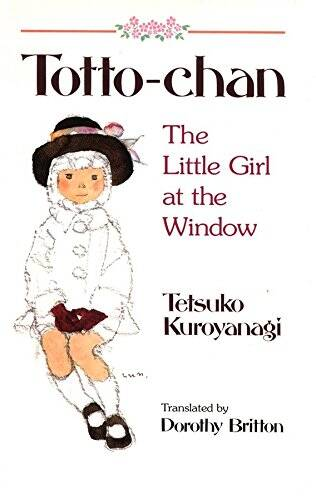
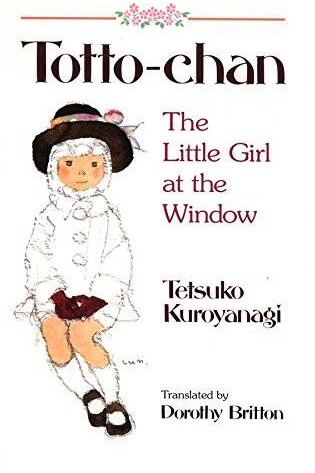
fixes #328

diff --git a/public_website/templates/public_website/resources.html b/public_website/templates/public_website/resources.html
@@ -61,13 +61,13 @@
                                                 <div class="detail-item">
                                                     <p>
                                                         <span class="detail-title">Available in: </span>
-                                                        <a class="book-link" href="https://www.tulikabooks.com/wordbird-books/the-why-why-girl-english.html" target="_blank">English</a>, 
-                                                        <a class="book-link" href="https://www.tulikabooks.com/wordbird-books/the-why-why-girl-kyun-kyun-ladki-hindi.html" target="_blank">Hindi</a>, 
-                                                        <a class="book-link" href="https://www.tulikabooks.com/wordbird-books/the-why-why-girl-kame-kame-chhokri-gujarati.html" target="_blank">Gujarati</a>, 
-                                                        <a class="book-link" href="https://www.tulikabooks.com/wordbird-books/the-why-why-girl-yaake-yaake-hudugi-kannada.html" target="_blank">Kannada</a>, 
-                                                        <a class="book-link" href="https://www.tulikabooks.com/wordbird-books/the-why-why-girl-oru-endendinu-pennkutti-malayalam.html" target="_blank">Malayalam</a>, 
-                                                        <a class="book-link" href="https://www.tulikabooks.com/wordbird-books/the-why-why-girl-kaan-kaan-kumari-marathi.html" target="_blank">Marathi</a>, 
-                                                        <a class="book-link" href="https://www.tulikabooks.com/wordbird-books/the-why-why-girl-yain-yain-sirumi-tamil.html" target="_blank">Tamil</a>, 
+                                                        <a class="book-link" href="https://www.tulikabooks.com/wordbird-books/the-why-why-girl-english.html" target="_blank">English</a>,
+                                                        <a class="book-link" href="https://www.tulikabooks.com/wordbird-books/the-why-why-girl-kyun-kyun-ladki-hindi.html" target="_blank">Hindi</a>,
+                                                        <a class="book-link" href="https://www.tulikabooks.com/wordbird-books/the-why-why-girl-kame-kame-chhokri-gujarati.html" target="_blank">Gujarati</a>,
+                                                        <a class="book-link" href="https://www.tulikabooks.com/wordbird-books/the-why-why-girl-yaake-yaake-hudugi-kannada.html" target="_blank">Kannada</a>,
+                                                        <a class="book-link" href="https://www.tulikabooks.com/wordbird-books/the-why-why-girl-oru-endendinu-pennkutti-malayalam.html" target="_blank">Malayalam</a>,
+                                                        <a class="book-link" href="https://www.tulikabooks.com/wordbird-books/the-why-why-girl-kaan-kaan-kumari-marathi.html" target="_blank">Marathi</a>,
+                                                        <a class="book-link" href="https://www.tulikabooks.com/wordbird-books/the-why-why-girl-yain-yain-sirumi-tamil.html" target="_blank">Tamil</a>,
                                                         <a class="book-link" href="https://www.tulikabooks.com/wordbird-books/the-why-why-girl-enduku-enduku-ammaayi-telugu.html" target="_blank">Telugu</a>
                                                     </p>
                                                 </div>
@@ -80,8 +80,8 @@
                     </div>
                     <div class="resource-item">
                         <div>
-                            <img class="book-cover default-cover" src="{% static 'resources/cover.jpg' %}" alt="Sawaliram Book cover">
-                            <p class="resource-title">Discovered questions</p>
+                          <img class="book-details-cover" src="{% static 'resources/discovered-questions.png' %}" alt="Discovered Questions cover">
+                            <p class="resource-title">Discovered Questions</p>
                             <p class="resource-sub-title">by Yash Pal</p>
                             <p class="resource-language">
                                 <a class="resource-language-link" href="https://archive.org/details/DiscoveredQuestions" target="_blank">English</a>,
@@ -95,13 +95,13 @@
                                     <div class="modal-content">
                                         <button class="btn btn-small close-modal" data-dismiss="modal"><i class="fas fa-times"></i> close</button>
                                         <div class="book-details-content">
-                                            <img class="book-details-cover default-cover" src="{% static 'resources/cover.jpg' %}" alt="Sawaliram Book cover">
+                                          <img class="book-details-cover" src="{% static 'resources/discovered-questions.png' %}" alt="Discovered Questions cover">
                                             <div class="details-container">
                                                 <div class="detail-item">
                                                     <p><span class="detail-title">Author: </span>Yash Pal</p>
                                                 </div>
                                                 <div class="detail-item">
-                                                    <p><span class="detail-title">Title: </span>Discovered questions</p>
+                                                    <p><span class="detail-title">Title: </span>Discovered Questions</p>
                                                 </div>
                                                 <div class="detail-item">
                                                     <p><span class="detail-title">Publisher: </span>National Council of Educational Research and Training (NCERT)</p>
@@ -126,7 +126,7 @@
                     <div class="resource-item">
                         <div>
                             <img class="book-cover" src="{% static 'resources/science-through-post-card.jpg' %}" alt="Science through postcards cover">
-                            <p class="resource-title">Science through postcards</p>
+                            <p class="resource-title">Science Through Postcards</p>
                             <p class="resource-sub-title">by Jayant Narlikar</p>
                             <p class="resource-language">
                                 <a class="resource-language-link" href="https://scipop.iucaa.in/Literature/jvn-postcardbook.htm" target="_blank">English</a>,
@@ -147,7 +147,7 @@
                                                     <p><span class="detail-title">Author: </span>Jayant Narlikar</p>
                                                 </div>
                                                 <div class="detail-item">
-                                                    <p><span class="detail-title">Title: </span>Science through postcards</p>
+                                                    <p><span class="detail-title">Title: </span>Science Through Postcards</p>
                                                 </div>
                                                 <div class="detail-item">
                                                     <p><span class="detail-title">Publisher (Marathi): </span>Marathi Vidnyan Parishad</p>
@@ -172,7 +172,7 @@
                     </div>
                     <div class="resource-item">
                         <div>
-                            <img class="book-cover default-cover" src="{% static 'resources/cover.jpg' %}" alt="Sawaliram Book cover">
+                            <img class="book-cover" src="{% static 'resources/chinnara-lokadalli.jpg' %}" alt="Chinnara Lokadalli Karantu cover">
                             <p class="resource-title">Chinnara Lokadalli Karantu</p>
                             <p class="resource-sub-title">by Shivaram Karanth</p>
                             <p class="resource-language">Kannada</p>
@@ -184,7 +184,7 @@
                                     <div class="modal-content">
                                         <button class="btn btn-small close-modal" data-dismiss="modal"><i class="fas fa-times"></i> close</button>
                                         <div class="book-details-content">
-                                            <img class="book-details-cover default-cover" src="{% static 'resources/cover.jpg' %}" alt="Sawaliram Book cover">
+                                            <img class="book-cover" src="{% static 'resources/chinnara-lokadalli.jpg' %}" alt="Chinnara Lokadalli Karantu cover">
                                             <div class="details-container">
                                                 <div class="detail-item">
                                                     <p><span class="detail-title">Author: </span>Shivaram Karanth</p>
@@ -214,11 +214,11 @@
                     </div>
                     <div class="resource-item">
                         <div>
-                            <img class="book-cover default-cover" src="{% static 'resources/cover.jpg' %}" alt="Sawaliram Book cover">
+                            <img class="book-cover" src="{% static 'resources/totto-chan.jpg' %}" alt="Totto Chan cover">
                             <p class="resource-title">Totto Chan</p>
                             <p class="resource-sub-title">by Tetsuko Kuroyanagi</p>
                             <p class="resource-language">
-                                Japanese, English, Hindi 
+                                Japanese, English, Hindi
                                 <br>+ 9 more
                             </p>
                         </div>
@@ -229,7 +229,7 @@
                                     <div class="modal-content">
                                         <button class="btn btn-small close-modal" data-dismiss="modal"><i class="fas fa-times"></i> close</button>
                                         <div class="book-details-content">
-                                            <img class="book-details-cover default-cover" src="{% static 'resources/cover.jpg' %}" alt="Sawaliram Book cover">
+                                            <img class="book-cover" src="{% static 'resources/totto-chan.jpg' %}" alt="Totto Chan cover">
                                             <div class="details-container">
                                                 <div class="detail-item">
                                                     <p><span class="detail-title">Author: </span>Tetsuko Kuroyanagi</p>
@@ -269,7 +269,7 @@
                     </div>
                     <div class="resource-item">
                         <div>
-                            <img class="book-cover default-cover" src="{% static 'resources/cover.jpg' %}" alt="Sawaliram Book cover">
+                          <img class="book-cover" src="{% static 'resources/a-summer-story.jpg' %}" alt="A Summer Story cover">
                             <p class="resource-title">A Summer Story</p>
                             <p class="resource-sub-title">by K. G. Subramanyan</p>
                             <p class="resource-language">
@@ -283,7 +283,7 @@
                                     <div class="modal-content">
                                         <button class="btn btn-small close-modal" data-dismiss="modal"><i class="fas fa-times"></i> close</button>
                                         <div class="book-details-content">
-                                            <img class="book-details-cover default-cover" src="{% static 'resources/cover.jpg' %}" alt="Sawaliram Book cover">
+                                            <img class="book-cover" src="{% static 'resources/a-summer-story.jpg' %}" alt="A Summer Story cover">
                                             <div class="details-container">
                                                 <div class="detail-item">
                                                     <p><span class="detail-title">Author: </span>K. G. Subramanyan</p>
@@ -317,7 +317,7 @@
             <div class="resource-item-wrapper">
                 <div class="resource-item">
                     <div>
-                        <img class="book-cover default-cover" src="{% static 'resources/cover.jpg' %}" alt="Sawaliram Book cover">
+                        <img class="book-cover" src="{% static 'resources/the-hungry-mind.jpg' %}" alt="The Hungry Mind cover">
                         <p class="resource-title">The Hungry Mind</p>
                         <p class="resource-sub-title">by Susan Engel</p>
                         <p class="resource-language">
@@ -331,7 +331,7 @@
                                 <div class="modal-content">
                                     <button class="btn btn-small close-modal" data-dismiss="modal"><i class="fas fa-times"></i> close</button>
                                     <div class="book-details-content">
-                                        <img class="book-details-cover default-cover" src="{% static 'resources/cover.jpg' %}" alt="Sawaliram Book cover">
+                                        <img class="book-cover" src="{% static 'resources/the-hungry-mind.jpg' %}" alt="The Hungry Mind cover">
                                         <div class="details-container">
                                             <div class="detail-item">
                                                 <p><span class="detail-title">Author: </span>Susan Engel</p>
@@ -363,7 +363,7 @@
                 </div>
                 <div class="resource-item">
                     <div>
-                        <img class="book-cover default-cover" src="{% static 'resources/cover.jpg' %}" alt="Sawaliram Book cover">
+                        <img class="book-cover" src="{% static 'resources/what-makes-us-curious.jpg' %}" alt="Why? What Makes Us Curious cover">
                         <p class="resource-title">Why? What Makes Us Curious</p>
                         <p class="resource-sub-title">by Simon & Schuster</p>
                         <p class="resource-language">
@@ -377,7 +377,7 @@
                                 <div class="modal-content">
                                     <button class="btn btn-small close-modal" data-dismiss="modal"><i class="fas fa-times"></i> close</button>
                                     <div class="book-details-content">
-                                        <img class="book-details-cover default-cover" src="{% static 'resources/cover.jpg' %}" alt="Sawaliram Book cover">
+                                        <img class="book-cover" src="{% static 'resources/what-makes-us-curious.jpg' %}" alt="Why? What Makes Us Curious cover">
                                         <div class="details-container">
                                             <div class="detail-item">
                                                 <p><span class="detail-title">Author: </span>Simon & Schuster</p>
@@ -423,7 +423,7 @@
                                 <div class="modal-content">
                                     <button class="btn btn-small close-modal" data-dismiss="modal"><i class="fas fa-times"></i> close</button>
                                     <div class="book-details-content">
-                                        <img class="book-details-cover" src="{% static 'resources/philosophy-of-childhood.jpg' %}" alt="The Philosophy of Childhood cover">
+                                        <img class="book-cover" src="{% static 'resources/philosophy-of-childhood.jpg' %}" alt="The Philosophy of Childhood cover">
                                         <div class="details-container">
                                             <div class="detail-item">
                                                 <p><span class="detail-title">Author: </span>Gareth B. Matthews</p>
@@ -455,7 +455,7 @@
                 </div>
                 <div class="resource-item">
                     <div>
-                        <img class="book-cover default-cover" src="{% static 'resources/cover.jpg' %}" alt="Sawaliram Book cover">
+                        <img class="book-cover" src="{% static 'resources/having-of-wonderful-ideas.jpg' %}" alt="The Having of Wonderful Ideas: And Other Essays on Teaching and Learning cover">
                         <p class="resource-title">The Having of Wonderful Ideas</p>
                         <p class="resource-sub-title">by Eleanor Duckworth</p>
                         <p class="resource-language">
@@ -469,7 +469,7 @@
                                 <div class="modal-content">
                                     <button class="btn btn-small close-modal" data-dismiss="modal"><i class="fas fa-times"></i> close</button>
                                     <div class="book-details-content">
-                                        <img class="book-details-cover default-cover" src="{% static 'resources/cover.jpg' %}" alt="Sawaliram Book cover">
+                                        <img class="book-cover" src="{% static 'resources/having-of-wonderful-ideas.jpg' %}" alt="The Having of Wonderful Ideas: And Other Essays on Teaching and Learning cover">
                                         <div class="details-container">
                                             <div class="detail-item">
                                                 <p><span class="detail-title">Author: </span>Eleanor Duckworth</p>
@@ -501,7 +501,7 @@
                 </div>
                 <div class="resource-item">
                     <div>
-                        <img class="book-cover default-cover" src="{% static 'resources/cover.jpg' %}" alt="Sawaliram Book cover">
+                        <img class="book-cover" src="{% static 'resources/hundred-languages-of-children.jpg' %}" alt="The Hundred Languages of Children: The Reggio Emilia Experience in Transformation cover">
                         <p class="resource-title">The Hundred Languages of Children</p>
                         <p class="resource-sub-title">(Editors) Carolyn P. Edwards, Lella Gandini, George Forman</p>
                         <p class="resource-language">
@@ -515,7 +515,7 @@
                                 <div class="modal-content">
                                     <button class="btn btn-small close-modal" data-dismiss="modal"><i class="fas fa-times"></i> close</button>
                                     <div class="book-details-content">
-                                        <img class="book-details-cover default-cover" src="{% static 'resources/cover.jpg' %}" alt="Sawaliram Book cover">
+                                        <img class="book-cover" src="{% static 'resources/hundred-languages-of-children.jpg' %}" alt="The Hundred Languages of Children: The Reggio Emilia Experience in Transformation cover">
                                         <div class="details-container">
                                             <div class="detail-item">
                                                 <p><span class="detail-title">Editors: </span>Carolyn P. Edwards, Lella Gandini, George Forman</p>
@@ -582,8 +582,8 @@
                     <p class="resource-title">I Wonder</p>
                     <p class="resource-sub-title">Azim Premji University</p>
                     <p class="resource-language">
-                        <a class="resource-language-link" href="https://azimpremjiuniversity.edu.in/SitePages/resources-iwonder.aspx" target="_blank">English</a>, 
-                        <a class="resource-language-link" href="https://azimpremjiuniversity.edu.in/SitePages/resources-iwonder.aspx" target="_blank">Hindi</a>, 
+                        <a class="resource-language-link" href="https://azimpremjiuniversity.edu.in/SitePages/resources-iwonder.aspx" target="_blank">English</a>,
+                        <a class="resource-language-link" href="https://azimpremjiuniversity.edu.in/SitePages/resources-iwonder.aspx" target="_blank">Hindi</a>,
                         <a class="resource-language-link" href="https://azimpremjiuniversity.edu.in/SitePages/resources-iwonder.aspx" target="_blank">Kannada</a>
                     </p>
                 </div>
@@ -628,7 +628,7 @@
                     </p>
                 </div>
                 <div class="resource-item">
-                    <img class="book-cover default-cover" src="{% static 'resources/cover.jpg' %}" alt="Sawaliram Book cover">
+                    <img class="book-cover" src="{% static 'resources/chekumuki.jpg' %}" alt="Chekumuki cover">
                     <p class="resource-title">Chekumuki</p>
                     <p class="resource-sub-title">Jana Vignana Vedika</p>
                     <p class="resource-language">
